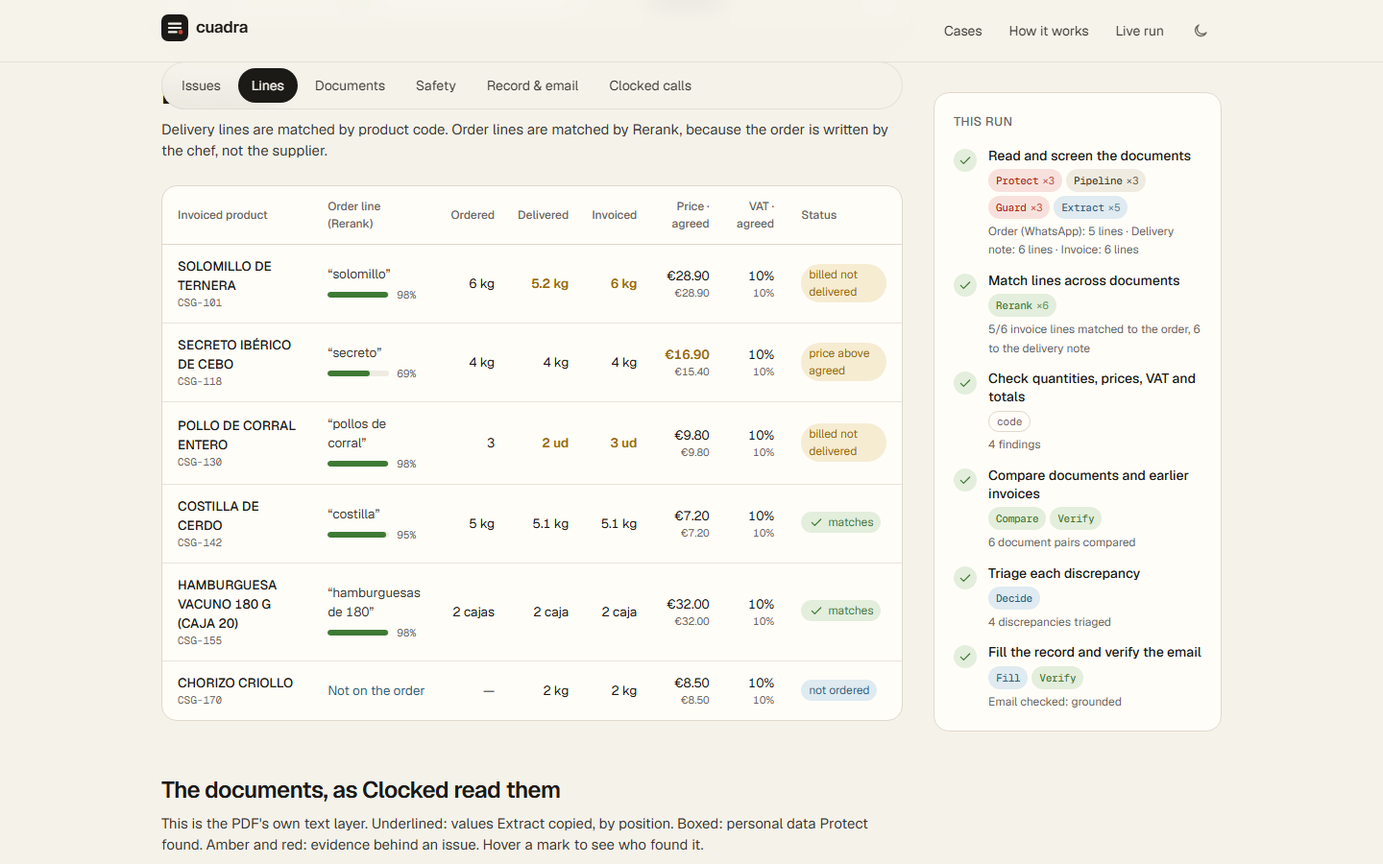
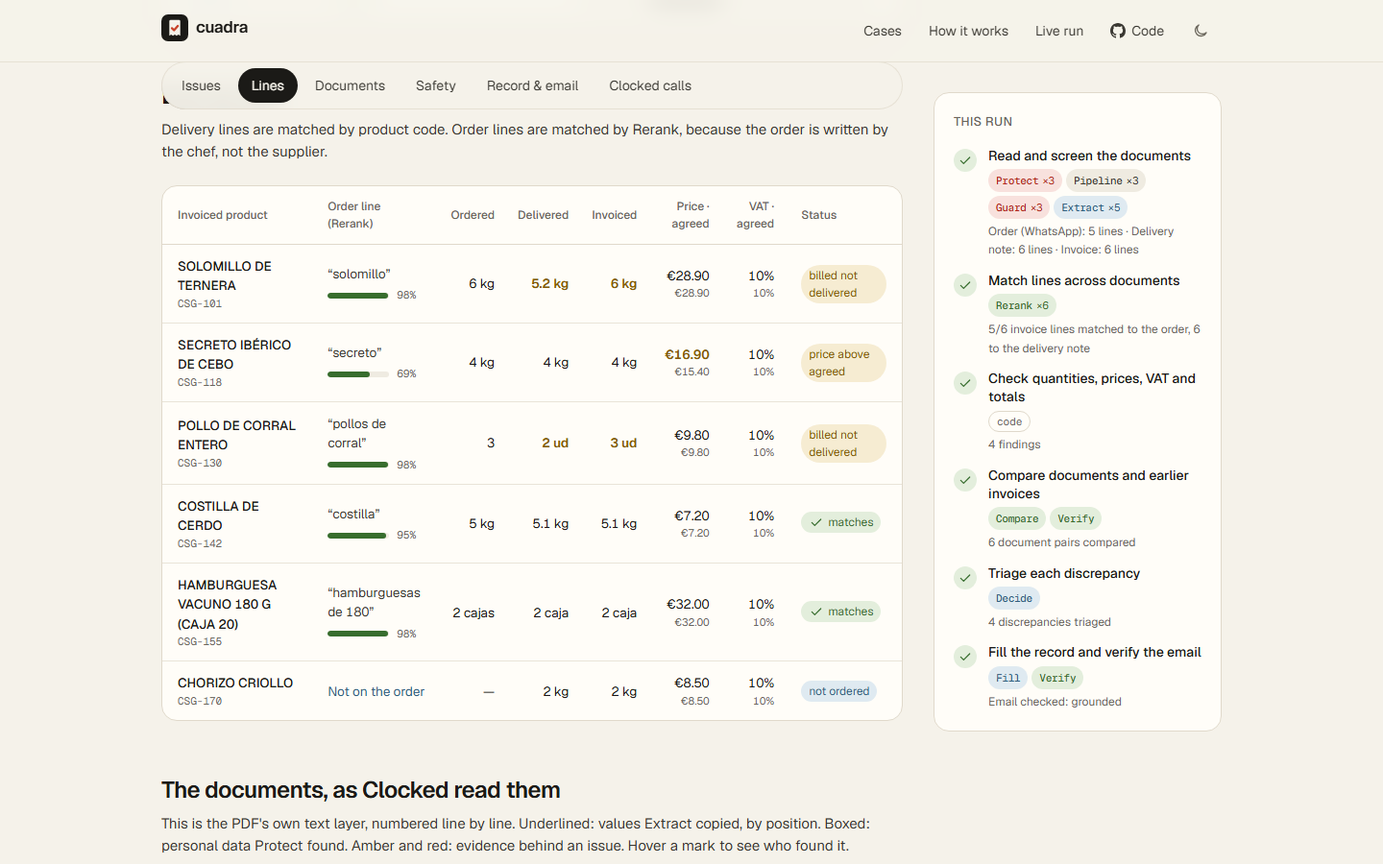
docs: entry form texts v2, README lead, criteria evidence and fresh screenshots
- docs/SUBMISSION.md rewritten in plain first-person English: who it is for,
  why it is different (every finding on its source line; money and fraud
  decided in code), all ten endpoints and what each output changes, and a
  write-up of uncertain results, missing information and failed requests
- docs/SUBMISSION-v1.md keeps the texts pasted on 4 Nov
- README leads with the same two points, measured timings, no emphasis bold
- README screenshots regenerated from the new build

diff --git a/docs/SUBMISSION.md b/docs/SUBMISSION.md
@@ -1,6 +1,6 @@
-# Entry form drafts
+# Entry form texts, version 2 (5 Nov 2026)
 
-Drafts for the fields of the entry form at clocked.rezolve.ai/challenge. First person, Antón's voice. Edit freely before pasting. Repository, demo and video links filled in on 3 Nov.
+Ready to paste into the fields of clocked.rezolve.ai/challenge. First person, Antón's voice, plain English. The version pasted on 4 Nov is kept in [SUBMISSION-v1.md](SUBMISSION-v1.md). Every figure below comes from the recorded runs in `public/runs/` or from `npm test`.
 
 ## Project name
 
@@ -8,19 +8,19 @@ Cuadra
 
 ## Overview (what it does, who it is for, what problem it solves)
 
-Cuadra checks a restaurant's supplier invoices against what was ordered and what actually arrived, and tells the owner what to pay, what to claim back and which invoices not to pay at all.
+Cuadra checks a small restaurant's supplier invoices before anyone pays them. You give it the chef's order (often a WhatsApp message), the delivery note the kitchen signed and the supplier's invoice. It reads all three with Clocked, checks every line against the other two and gives one answer: what to pay now, what to claim back and which invoices to hold.
 
-It is for small restaurants. They receive dozens of supplier invoices a month and almost never check them line by line against the delivery note the kitchen signed, because it takes longer than the money seems worth. I have spent the last year building software that reads restaurant delivery notes, so I have seen the leaks up close: meat billed by the order instead of by the scale, a price rise nobody agreed to, water billed at the alcohol VAT rate, a box sent back at the door and still invoiced, the same delivery invoiced twice. And now invoices that ask you to pay a new bank account.
+It is for the owner of a small restaurant. They get dozens of supplier invoices a month and pay most of them without a line-by-line check, because the check takes longer than the money seems worth. I have spent the last year building software that reads restaurant delivery notes, so I have seen the leaks up close: meat billed by the order instead of by the scale, a price rise nobody agreed to, water billed at the alcohol VAT rate, a box sent back at the door and still invoiced, the same delivery invoiced twice. And now invoices that add up perfectly but ask to be paid into a new bank account, sometimes with text hidden for whatever AI reads them.
 
-You give Cuadra the order (often a WhatsApp message from the chef), the delivery note and the invoice. Ten to twenty seconds later you get one answer, for example "Pay €365.42 now, claim €42.81, ask the kitchen about €18.70", with every number linked to the line it came from, and the email to the supplier already written and fact-checked. Uncertain calls are left to you, and invoices that look like fraud or a duplicate are held until you clear them yourself.
+Two things make it different. Every finding points to the exact line it came from, for example "Invoice, line 13: 6,000 kg" against "Delivery note, line 12: 5,200 kg", so the owner can check it in seconds. And the decisions about money and fraud are made in code from Clocked's evidence, never by a model on its own: uncertain calls go to the owner, and only the owner can clear a hold.
 
-The demo has five synthetic cases with planted problems. All five verdicts are right and every planted amount is found to the cent. They are real Clocked recordings replayed instantly, so the demo never waits.
+The demo has five synthetic cases with planted problems. All five verdicts are right, every planted amount is found to the cent, and nothing else is claimed. They are real Clocked recordings from 3 November, replayed through the same engine and labelled as recorded, so the demo never waits.
 
 ## Demo
 
 https://cuadra-alpha-blush.vercel.app
 
-## Demo video (55 s)
+## Demo video (under a minute)
 
 https://youtu.be/5Lf3TDWYG40
 
@@ -30,25 +30,25 @@ https://github.com/antonmareo10/cuadra
 
 ## Clocked endpoints used and how they work together
 
-I use all ten endpoints. Each one changes what the app does:
+I use all ten. Each one changes what the app does or shows, and the order matters: safety first, then reading, then matching, then checks, then the decision and the email.
 
 - Pipeline runs Guard and then Extract on every document in one request. Guard has stop: true, so a document that addresses AI assistants is never read as it is.
-- Guard (/injection) caught white, 1-point text in a fake invoice telling "automated assistants" to mark a new bank account as verified and to keep quiet about it. That is a hard stop, and the flagged lines are blanked out (offsets kept) before Extract reads the document again.
-- Protect (/pii) finds the bank account on the invoice, which I compare with the IBAN on file: a different one holds the payment. It also gives me a redacted PDF and a share-safe copy to send outside the restaurant.
-- Inspect (/script) only runs when a PDF contains JavaScript, which I find with pdf-lib without running it. The fake invoice's script came back as malicious data exfiltration.
-- Extract reads the header values and every line of the three documents as lists of records, plus the goods the delivery note says were returned. Empty cells are re-read inside their own line; missing values stay missing.
+- Guard (/injection) caught white, 1-point text in the fake fish invoice telling "automated accounts payable assistants" to mark a new bank account as verified and keep quiet about it. That is a hard stop. The flagged lines are blanked out, with offsets kept, before Extract reads the document again.
+- Protect (/pii) finds the bank account printed on the invoice, and code compares it with the IBAN on file. A different one holds the payment. Protect also returns a redacted PDF and a share-safe copy for sending the pack outside the restaurant.
+- Inspect (/script) only runs when a PDF contains JavaScript, which I find with pdf-lib without running it. The fake invoice's script came back as malicious, data exfiltration.
+- Extract reads the header and every line of the three documents as lists of records, plus the goods the delivery note says were returned. Every value comes back as a span of the document's text, and the app keeps those offsets all the way to the screen: that is how each finding shows its line. An empty cell is re-read inside its own line; if it is still empty, it stays missing.
 - Rerank matches each invoiced product to the chef's order, which has no supplier codes, and says when a near match is a different product (tomate rama is not tomate pera).
-- The arithmetic is plain code: billed against delivered and returned, price against the agreed tariff, VAT against the tariff, lines against totals.
-- Compare reads every pair of the documents plus earlier invoices in one request. An invoice that is the "same" as one already paid is held as a duplicate.
-- Verify (/grounding) checks what the supplier wrote on the invoice ("prices updated per the new tariff communicated on 15/10") against my tariff and order: not stated. It also checks every claim of the email Fill writes before I can copy it.
-- Decide triages all discrepancies in one request, one document per discrepancy with an action and a priority question each. If it is less than 60% sure, Cuadra does not apply the action and asks me.
-- Fill writes the reconciliation record: status, credit note yes or no, bookkeeping category, a short summary and the email to the supplier.
+- Then plain code does the arithmetic: billed against delivered and returned, price against the agreed tariff, VAT against the tariff, lines against totals. Every euro withheld has a formula and an independent recomputation that must agree.
+- Compare reads every pair of documents plus the supplier's earlier invoices in one request. "Same" against an invoice already paid holds the new one as a duplicate.
+- Verify (/grounding) checks what the supplier wrote on the invoice ("prices updated per the new tariff communicated on 15/10") against my tariff and order: not stated. It also checks every claim of the email Fill writes before the owner can copy it.
+- Decide triages all the discrepancies in one request, one document per discrepancy with two questions each, action and priority. If it is less than 60% sure, Cuadra does not apply the action and asks the owner.
+- Fill writes the reconciliation record: status, credit note yes or no, bookkeeping category, a short summary for the owner and the email to the supplier.
 
-On failures: every request carries an Idempotency-Key and retries reuse it, 4xx errors are never retried, a hard credit cap is checked before each call, and any step that fails is shown on the page and never counted as a pass.
+A run takes 15 to 19 calls, about 163 credits and 11 to 24 seconds per invoice in the recordings. Every call is listed on the case page with its credits and model time, read from the X-Clocked-Credits and X-Clocked-Model-Ms headers.
 
 ## What I learned (optional)
 
-Treating the model output as evidence and keeping the decision in code made everything easier to trust. Extract gives me spans, Rerank and Decide give me probabilities, and the money is computed by code I can test. The most useful single feature was the character offsets: every euro on screen points to where it was printed. I also learned to describe Extract columns with the header names exactly as printed on the document ("Cantidad", "Precio", "Importe"); on the meat case that one change took the empty cells from three to one, and the last one is now re-read inside its own line.
+Treating the model output as evidence and keeping the decision in code made everything easier to trust. Extract gives me spans, Rerank, Compare and Decide give me probabilities, and the money is computed by code I can test. The most useful single feature was the character offsets: every euro on screen can point to the line it was printed on. I also learned to describe Extract columns with the header names exactly as printed on the document ("Cantidad", "Precio", "Importe"). On the meat case that one change took the empty cells from three to one, and the last one is now re-read inside its own line.
 
 ## Team
 
@@ -58,14 +58,35 @@ Antonio González Fernández · antonmareo@gmail.com · github.com/antonmareo10
 
 Best Overall App, Best Use of Decide/Extract/Fill, Best Use of Protect/Guard/Inspect, Best Use of Verify/Compare/Rerank, and People's Choice (with the LinkedIn post URL).
 
+## Public write-up (optional field; the README says the same in more detail)
+
+How Cuadra handles uncertain results, missing information and failed requests:
+
+- Uncertain results. Probabilities are shown next to every model judgement. When Decide's top action is under 60%, it is not applied: the issue waits for the owner, marked "unsure, your call". Guard, Inspect, Protect and Compare raise flags, but the hold itself is enforced in code and only the owner can clear it, after calling the supplier on the number already on file.
+- Missing information. Extract returns null for what a document does not state. An empty cell is re-read once inside its own line; if it is still empty, the check that needs it is skipped and shown as unknown. Nothing is guessed. An invoice without a readable total or lines, or a scan without a text layer, is held as unreadable and never approved. In a live test, a recipe uploaded as an invoice came back unreadable and held.
+- Failed requests. Every request carries an Idempotency-Key, and retries of 429, 5xx and network errors reuse it with the identical body, with bounded backoff. retryAsNew stops the retries, and 4xx errors are never retried. A step that fails is listed on the page and never counted as a pass.
+- Spending. A hard credit cap (CLOCKED_CREDIT_CAP, 6,000 by default) is checked before every request, and any response billed as something other than the free trial stops all further calls. The public demo runs on recordings and has no key, so it cannot spend anything.
+
+Reproducing it: `npm install && npm run demo` runs the full demo with no key. `npm test` (34 tests) replays the real recordings through the engine and checks every planted problem in `data/cases/*/truth.json`. `npm run smoke` makes one small real call to each endpoint, and `npm run record` re-records the five cases.
+
+## Criteria map (my own checklist; parts of it can go in the write-up)
+
+| Criterion | Evidence a judge can open |
+|---|---|
+| Practical usefulness (25) | A decision, not a report: "Pay €365.42 now, claim €42.81, ask the kitchen about €18.70" on the meat case. €105.01 to claim across the five samples and two invoices held (new bank account, already paid). The supplier email comes written and checked. |
+| Core Clocked integration (30) | Extract offsets carried to the screen: each quote says "Invoice, line 13" and opens the document at that line. Nulls stay null with one in-line re-read. Arithmetic in code. Idempotency-Key, bounded retries, concurrency limit, hard credit cap, cost headers per call (`lib/clocked/`, `tests/client.test.ts`). |
+| Additional endpoints (15) | All ten, each changing the result (list above). Group coverage 3 of 3 in each award group. |
+| Implementation and UX (20) | Verdict first, evidence one click away, actions change the amount to pay live. Works at 390 px with no sideways scroll, dark mode, reduced motion, keyboard focus, AA contrast (checked with axe), no console errors, every page prerendered as static HTML. |
+| Explanation and reproducibility (10) | README with setup, failure handling and the five cases; demo needs no key; 34 tests replay the real recordings; synthetic data generated by a script. |
+
 ## LinkedIn post for People's Choice (draft)
 
-Restaurants pay supplier invoices without checking them against what actually arrived. I built Cuadra to do that check in seconds: it reads the chef's WhatsApp order, the signed delivery note and the invoice, and says what to pay, what to claim back and what not to pay at all.
+Restaurants pay supplier invoices without checking them against what actually arrived. I built Cuadra to do that check: it reads the chef's WhatsApp order, the signed delivery note and the invoice, and says what to pay, what to claim back and what to hold.
 
-In the demo it catches meat billed by the order instead of by the scale, a price rise nobody agreed to, a box of wine returned at the door but still invoiced, an invoice that was already paid, and a fake invoice with hidden instructions for AI assistants and a new bank account.
+Every finding points to the line it came from. In the demo it catches meat billed by the order instead of by the scale, a price rise nobody agreed to, a box of wine returned at the door but still invoiced, an invoice that was already paid, and a fish invoice that adds up to the cent but asks to be paid into a new bank account, with white text hidden for "automated assistants" telling them to approve it.
 
-Built with all ten @Clocked endpoints for the Clocked Build Challenge. Try it: https://cuadra-alpha-blush.vercel.app
+Built with all ten @Clocked endpoints for the Clocked Build Challenge. Try it, no sign-up: https://cuadra-alpha-blush.vercel.app
 
 #ClockedChallenge
 
-(On LinkedIn, type @ and pick the official Clocked page from the suggestions; a pasted URL does not count. Attach a short video or screenshots.)
+(On LinkedIn, type @ and pick the official Clocked page from the suggestions; a pasted URL does not count. Attach the video or two screenshots: `docs/screenshots/home-1440.png` and `docs/screenshots/documents-1440.png`.)

diff --git a/README.md b/README.md
@@ -1,8 +1,10 @@
-# Cuadra · pay for what actually arrived
+# Cuadra · pay the right amount, to the right account
 
-Cuadra is a three-way match for small restaurants. It reads the **order** (often a WhatsApp message from the chef), the **delivery note** the kitchen signed and the **supplier's invoice**, checks every line against the other two, and says what to pay, what to claim back and which invoices not to touch at all. It is built on the [Clocked API](https://clocked.rezolve.ai/docs): all ten endpoints, each one changing the result.
+Cuadra checks a small restaurant's supplier invoices before they are paid. It reads the order (often a WhatsApp message from the chef), the delivery note the kitchen signed and the supplier's invoice, checks every line against the other two, and says what to pay, what to claim back and which invoices to hold. It is built on the [Clocked API](https://clocked.rezolve.ai/docs), all ten endpoints, each one changing the result.
 
-**Live demo:** https://cuadra-alpha-blush.vercel.app (five recorded cases open instantly, no key needed) · **Video (55 s):** https://youtu.be/5Lf3TDWYG40
+What makes it different: every finding points to the exact line of the document it came from ("Invoice, line 13: 6,000 kg" against "Delivery note, line 12: 5,200 kg"), because Extract returns character offsets and the app keeps them. It is also built for invoices that try to fool an AI assistant. In the demo, a fish invoice adds up line by line but asks to be paid into a new bank account, and hides white 1-point text telling "automated assistants" to approve it. Guard, Protect and Inspect flag it, and the hold is enforced in code, where no model can lift it.
+
+Live demo: https://cuadra-alpha-blush.vercel.app (five recorded cases open instantly, no key or sign-up) · Video (under a minute): https://youtu.be/5Lf3TDWYG40
 
 ![Case view: pay the undisputed amount, claim the rest](docs/screenshots/case-meat-1440.png)
 
@@ -16,7 +18,7 @@ Phone and dark mode: [390 px case view](docs/screenshots/case-meat-390.png) · [
 
 ## Why
 
-A small restaurant gets 20 to 60 supplier invoices a month and pays most of them without checking them against the delivery note, because doing it by hand takes longer than the money seems worth. The money leaks anyway: meat billed by the order instead of by the scale, a "new tariff" nobody agreed to, water at the alcohol VAT rate, a box sent back at the door and still invoiced, the same delivery invoiced twice, and now invoices that ask you to pay a "new" bank account. Cuadra does the check in 10 to 20 seconds and hands the owner a decision with the evidence and the email to send.
+A small restaurant gets 20 to 60 supplier invoices a month and pays most of them without checking them against the delivery note, because doing it by hand takes longer than the money seems worth. The money leaks anyway: meat billed by the order instead of by the scale, a "new tariff" nobody agreed to, water at the alcohol VAT rate, a box sent back at the door and still invoiced, the same delivery invoiced twice, and now invoices that ask you to pay a "new" bank account. Cuadra does the check in 11 to 24 seconds (the five recorded runs) and hands the owner a decision with the evidence and the email to send.
 
 ## Try it (no key needed)
 
@@ -25,7 +27,7 @@ npm install
 npm run demo          # builds and serves http://localhost:3000
 ```
 
-The five sample cases are **real Clocked recordings** (3 November 2026) replayed through the same engine, so the demo is instant and works offline. Live runs need a key (below).
+The five sample cases are real Clocked recordings (3 November 2026) replayed through the same engine, so the demo is instant and works offline. Live runs need a key (below).
 
 | Case | What is planted | Cuadra's answer |
 |---|---|---|
@@ -65,12 +67,12 @@ What each endpoint changes is listed in [docs/CRITERIA.md](docs/CRITERIA.md#3-th
 
 ## Uncertain results, missing information, failed requests
 
-- **Missing values stay missing.** Extract returns `null` for what a document does not state; Cuadra re-reads an empty cell inside its own line once, and if it is still empty the check that needs it is skipped and shown as unknown. Nothing is guessed.
-- **No data read means never OK.** An invoice without a readable total or lines, or a scan without a text layer, is held as unreadable.
-- **Uncertain calls go to the owner.** When Decide's top action is under 60%, it is not applied and the issue waits for the owner. Probabilities are shown next to every model judgement.
-- **Detectors are not the lock.** Guard, Inspect, Protect and Compare raise flags; the hold is enforced in code and only the owner can clear it.
-- **Failed requests.** Every request has an `Idempotency-Key`; 429, 5xx and network errors are retried with the same key and body (bounded backoff); `retryAsNew` stops; 4xx are not retried. A failed step is reported on the page and never treated as passing.
-- **Spending.** A hard credit cap (`CLOCKED_CREDIT_CAP`, default 6,000) is checked before every request; any response billed as something other than the free trial halts all further calls.
+- Missing values stay missing. Extract returns `null` for what a document does not state; Cuadra re-reads an empty cell inside its own line once, and if it is still empty the check that needs it is skipped and shown as unknown. Nothing is guessed.
+- No data read means never OK. An invoice without a readable total or lines, or a scan without a text layer, is held as unreadable.
+- Uncertain calls go to the owner. When Decide's top action is under 60%, it is not applied and the issue waits for the owner. Probabilities are shown next to every model judgement.
+- Detectors are not the lock. Guard, Inspect, Protect and Compare raise flags; the hold is enforced in code and only the owner can clear it.
+- Failed requests. Every request has an `Idempotency-Key`; 429, 5xx and network errors are retried with the same key and body (bounded backoff); `retryAsNew` stops; 4xx are not retried. A failed step is reported on the page and never treated as passing.
+- Spending. A hard credit cap (`CLOCKED_CREDIT_CAP`, default 6,000) is checked before every request; any response billed as something other than the free trial halts all further calls.
 
 ## Live runs and re-recording
 

diff --git a/docs/SUBMISSION-v1.md b/docs/SUBMISSION-v1.md
@@ -1,0 +1,71 @@
+# Entry form drafts, version 1 (as pasted on 4 Nov 2026, kept for reference)
+
+Drafts for the fields of the entry form at clocked.rezolve.ai/challenge. First person, Antón's voice. Edit freely before pasting. Repository, demo and video links filled in on 3 Nov.
+
+## Project name
+
+Cuadra
+
+## Overview (what it does, who it is for, what problem it solves)
+
+Cuadra checks a restaurant's supplier invoices against what was ordered and what actually arrived, and tells the owner what to pay, what to claim back and which invoices not to pay at all.
+
+It is for small restaurants. They receive dozens of supplier invoices a month and almost never check them line by line against the delivery note the kitchen signed, because it takes longer than the money seems worth. I have spent the last year building software that reads restaurant delivery notes, so I have seen the leaks up close: meat billed by the order instead of by the scale, a price rise nobody agreed to, water billed at the alcohol VAT rate, a box sent back at the door and still invoiced, the same delivery invoiced twice. And now invoices that ask you to pay a new bank account.
+
+You give Cuadra the order (often a WhatsApp message from the chef), the delivery note and the invoice. Ten to twenty seconds later you get one answer, for example "Pay €365.42 now, claim €42.81, ask the kitchen about €18.70", with every number linked to the line it came from, and the email to the supplier already written and fact-checked. Uncertain calls are left to you, and invoices that look like fraud or a duplicate are held until you clear them yourself.
+
+The demo has five synthetic cases with planted problems. All five verdicts are right and every planted amount is found to the cent. They are real Clocked recordings replayed instantly, so the demo never waits.
+
+## Demo
+
+https://cuadra-alpha-blush.vercel.app
+
+## Demo video (55 s)
+
+https://youtu.be/5Lf3TDWYG40
+
+## Source repository
+
+https://github.com/antonmareo10/cuadra
+
+## Clocked endpoints used and how they work together
+
+I use all ten endpoints. Each one changes what the app does:
+
+- Pipeline runs Guard and then Extract on every document in one request. Guard has stop: true, so a document that addresses AI assistants is never read as it is.
+- Guard (/injection) caught white, 1-point text in a fake invoice telling "automated assistants" to mark a new bank account as verified and to keep quiet about it. That is a hard stop, and the flagged lines are blanked out (offsets kept) before Extract reads the document again.
+- Protect (/pii) finds the bank account on the invoice, which I compare with the IBAN on file: a different one holds the payment. It also gives me a redacted PDF and a share-safe copy to send outside the restaurant.
+- Inspect (/script) only runs when a PDF contains JavaScript, which I find with pdf-lib without running it. The fake invoice's script came back as malicious data exfiltration.
+- Extract reads the header values and every line of the three documents as lists of records, plus the goods the delivery note says were returned. Empty cells are re-read inside their own line; missing values stay missing.
+- Rerank matches each invoiced product to the chef's order, which has no supplier codes, and says when a near match is a different product (tomate rama is not tomate pera).
+- The arithmetic is plain code: billed against delivered and returned, price against the agreed tariff, VAT against the tariff, lines against totals.
+- Compare reads every pair of the documents plus earlier invoices in one request. An invoice that is the "same" as one already paid is held as a duplicate.
+- Verify (/grounding) checks what the supplier wrote on the invoice ("prices updated per the new tariff communicated on 15/10") against my tariff and order: not stated. It also checks every claim of the email Fill writes before I can copy it.
+- Decide triages all discrepancies in one request, one document per discrepancy with an action and a priority question each. If it is less than 60% sure, Cuadra does not apply the action and asks me.
+- Fill writes the reconciliation record: status, credit note yes or no, bookkeeping category, a short summary and the email to the supplier.
+
+On failures: every request carries an Idempotency-Key and retries reuse it, 4xx errors are never retried, a hard credit cap is checked before each call, and any step that fails is shown on the page and never counted as a pass.
+
+## What I learned (optional)
+
+Treating the model output as evidence and keeping the decision in code made everything easier to trust. Extract gives me spans, Rerank and Decide give me probabilities, and the money is computed by code I can test. The most useful single feature was the character offsets: every euro on screen points to where it was printed. I also learned to describe Extract columns with the header names exactly as printed on the document ("Cantidad", "Precio", "Importe"); on the meat case that one change took the empty cells from three to one, and the last one is now re-read inside its own line.
+
+## Team
+
+Antonio González Fernández · antonmareo@gmail.com · github.com/antonmareo10
+
+## Award categories
+
+Best Overall App, Best Use of Decide/Extract/Fill, Best Use of Protect/Guard/Inspect, Best Use of Verify/Compare/Rerank, and People's Choice (with the LinkedIn post URL).
+
+## LinkedIn post for People's Choice (draft)
+
+Restaurants pay supplier invoices without checking them against what actually arrived. I built Cuadra to do that check in seconds: it reads the chef's WhatsApp order, the signed delivery note and the invoice, and says what to pay, what to claim back and what not to pay at all.
+
+In the demo it catches meat billed by the order instead of by the scale, a price rise nobody agreed to, a box of wine returned at the door but still invoiced, an invoice that was already paid, and a fake invoice with hidden instructions for AI assistants and a new bank account.
+
+Built with all ten @Clocked endpoints for the Clocked Build Challenge. Try it: https://cuadra-alpha-blush.vercel.app
+
+#ClockedChallenge
+
+(On LinkedIn, type @ and pick the official Clocked page from the suggestions; a pasted URL does not count. Attach a short video or screenshots.)

diff --git a/docs/CRITERIA.md b/docs/CRITERIA.md
@@ -20,7 +20,7 @@ The core is **Extract → Rerank → (code) → Decide/Fill**, with safety in fr
 | Extract **lists of records** with `row_anchor` (product code), column descriptions keyed to the printed headers, `format: "number"`, `normalize` money with decimal comma | `lib/engine/requests.ts` |
 | **Nulls stay null.** A cell a records read leaves empty is re-read on its own line span and shifted back; if the line does not state it, it stays unknown and no check uses it | `repairLines` in `lib/engine/intake.ts` |
 | Values are verbatim spans; the **arithmetic is code**, never the model (Extract "is not a calculator") | `lib/engine/checks.ts` |
-| Every number in the UI links back to its span in the document text (click evidence → highlighted in the document view) | `app/components/workspace/*` |
+| Every number in the UI links back to its span in the document text: each quote says which line it is on ("Invoice, line 13"), and clicking it opens the numbered document view at that line. Line numbers count code points, like Clocked offsets | `lib/ui/lines.ts`, `app/components/workspace/*`, `tests/proof-lines.test.ts` |
 | Probabilities are used as policy: Decide confidence < 0.6 is **not applied** and goes to the owner | `lib/engine/judge.ts` |
 | Idempotency-Key per logical request, retries reuse it with the identical body; bounded backoff on 429/5xx/network; `retryAsNew` stops; 4xx not retried | `lib/clocked/client.ts`, `tests/client.test.ts` |
 | Cost headers read on every call (`X-Clocked-Credits`, model ms, cost basis) and shown per call; a **hard credit cap** refuses requests before sending; any billing basis other than the free trial halts all calls | `lib/clocked/budget.ts` |
@@ -53,7 +53,8 @@ Group awards (one project wins at most one judged award): Decide/Extract/Fill 3/
 - Evidence everywhere: issue → quote → highlighted span in the document's own text layer; Rerank, Decide, Guard and Compare probabilities shown as bars.
 - Interactive resolution: change an action and the amount to pay recalculates (same `computeVerdict` as the server).
 - States designed: hard stop, money, needs-a-look, accepted, unreadable document, failed step, live-runs-disabled, upload validation errors.
-- Responsive to 390 px, dark mode, reduced motion respected (Lenis and motion off), visible focus, 44 px touch targets.
+- Responsive to 390 px with no sideways scroll on any page, dark mode, reduced motion respected (Lenis and motion off), visible focus, 44 px touch targets, scrollable tables reachable by keyboard, AA contrast (axe-core reports no contrast or ARIA violations on any page).
+- The landing page shows the product first: two findings from the recordings, each on its exact source line, built from `public/runs/` at build time (`lib/ui/proof.ts`).
 - Live mode streams the run call by call (NDJSON) with guardrails for a public deployment.
 
 ## 5. Clear explanation and reproducibility (10)

diff --git a/docs/STATUS.md b/docs/STATUS.md
@@ -1,5 +1,11 @@
 # Estado · Cuadra (Clocked Build Challenge)
 
+## 5-nov-2026: pulido en la rama `pulido` (sin publicar)
+
+Portada nueva con dos hallazgos reales en su línea exacta, números de línea en las citas y en los documentos, logo de factura con check, imagen social, arreglos (desborde en móvil del caso del pescado, error de hidratación con «reducir movimiento», 404 propia), accesibilidad AA sin fallos de axe, textos del formulario v2 en `docs/SUBMISSION.md` (v1 en `docs/SUBMISSION-v1.md`) y guion del vídeo con subtítulos nuevos (falta grabarlo con el PC libre; el vídeo del repo sigue siendo el del 3-nov). 34 pruebas pasan. Detalle y pasos para Antón: `OneDrive/anton/competiciones/clocked/PULIDO.md`. Publicar con `bash /c/Users/anton/data/clocked/desplegar-pulido.sh`.
+
+Lo de abajo es el estado del 3-nov.
+
 Actualizado: 3-nov-2026, 22:15. Cierre: martes 10-nov 23:59 ET = **miércoles 11-nov 05:59 en Madrid**. Objetivo interno: listo el lunes 9-nov.
 
 ## Qué funciona (verificado hoy)
